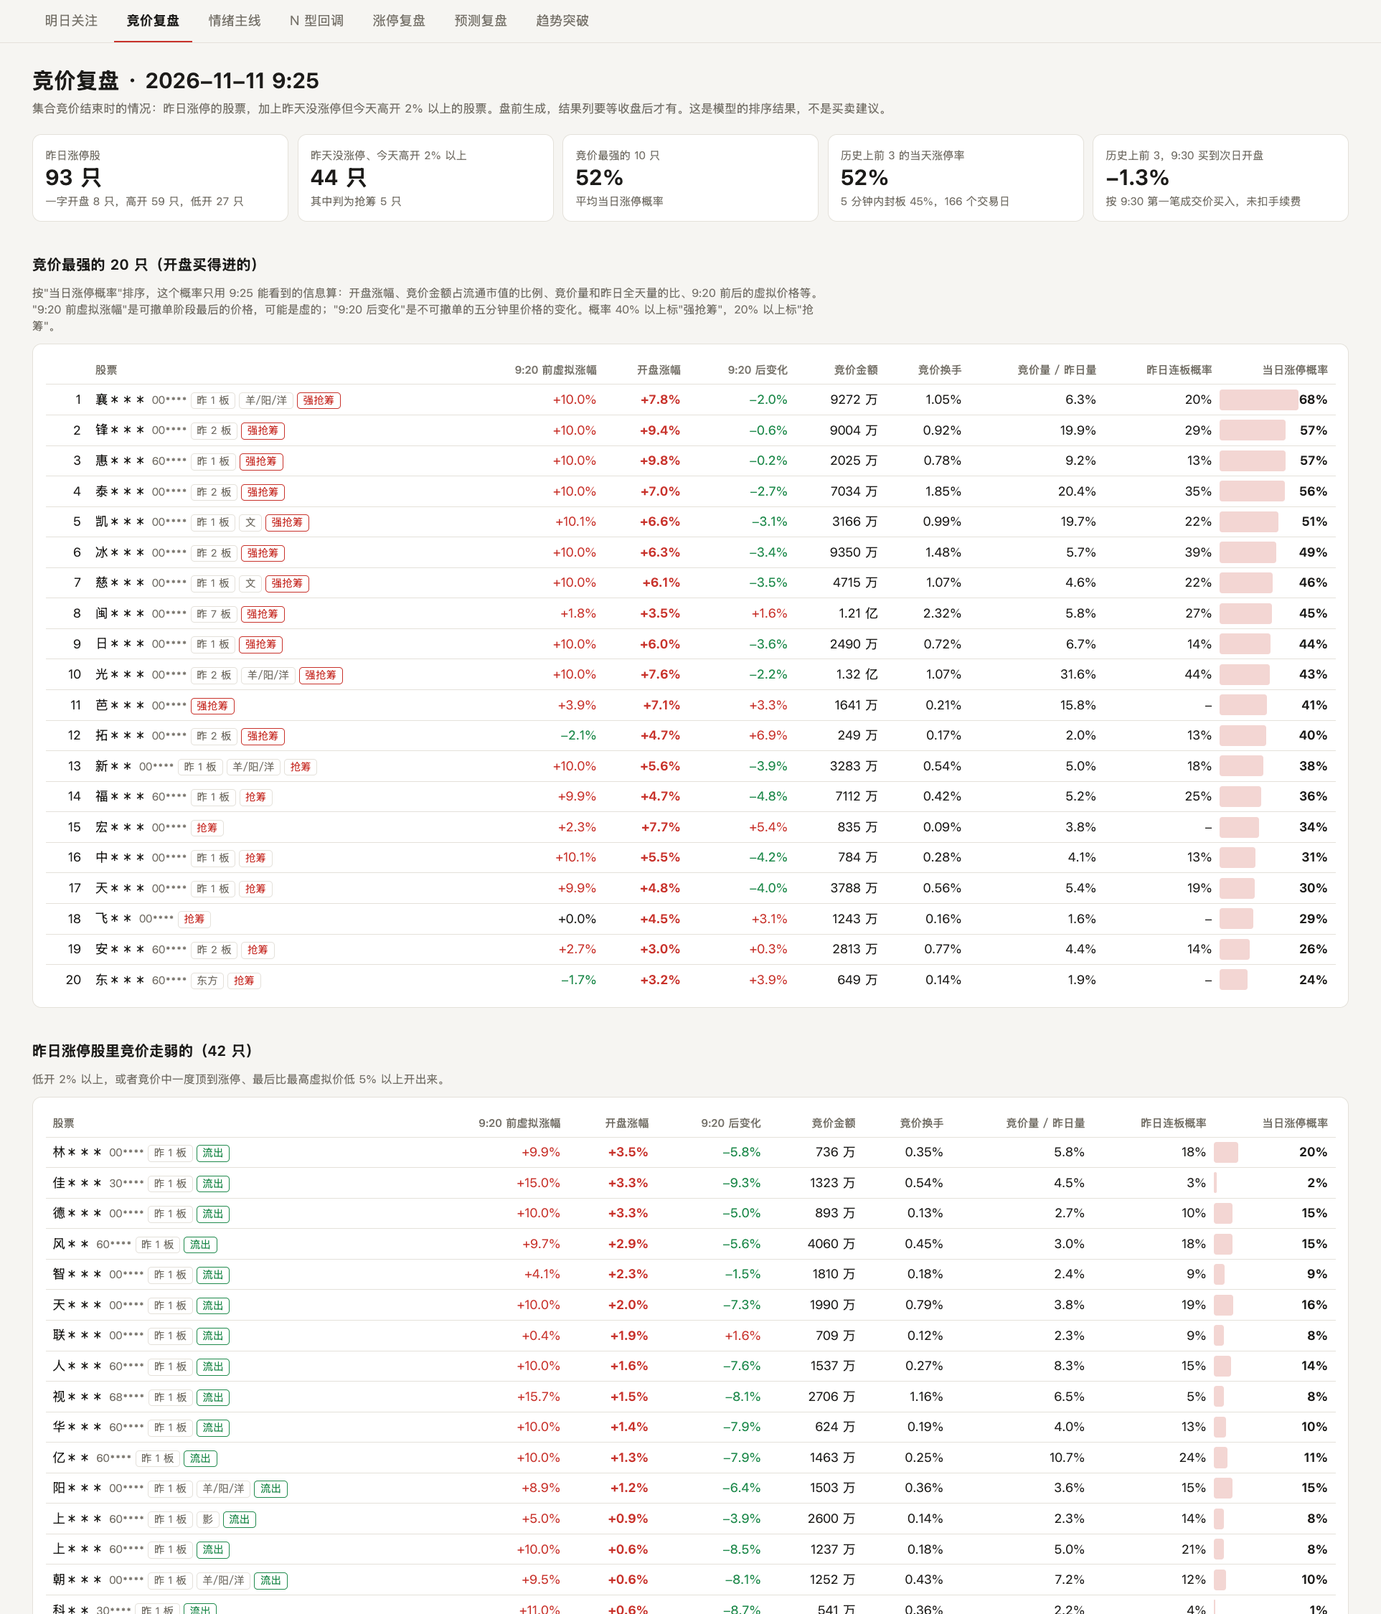
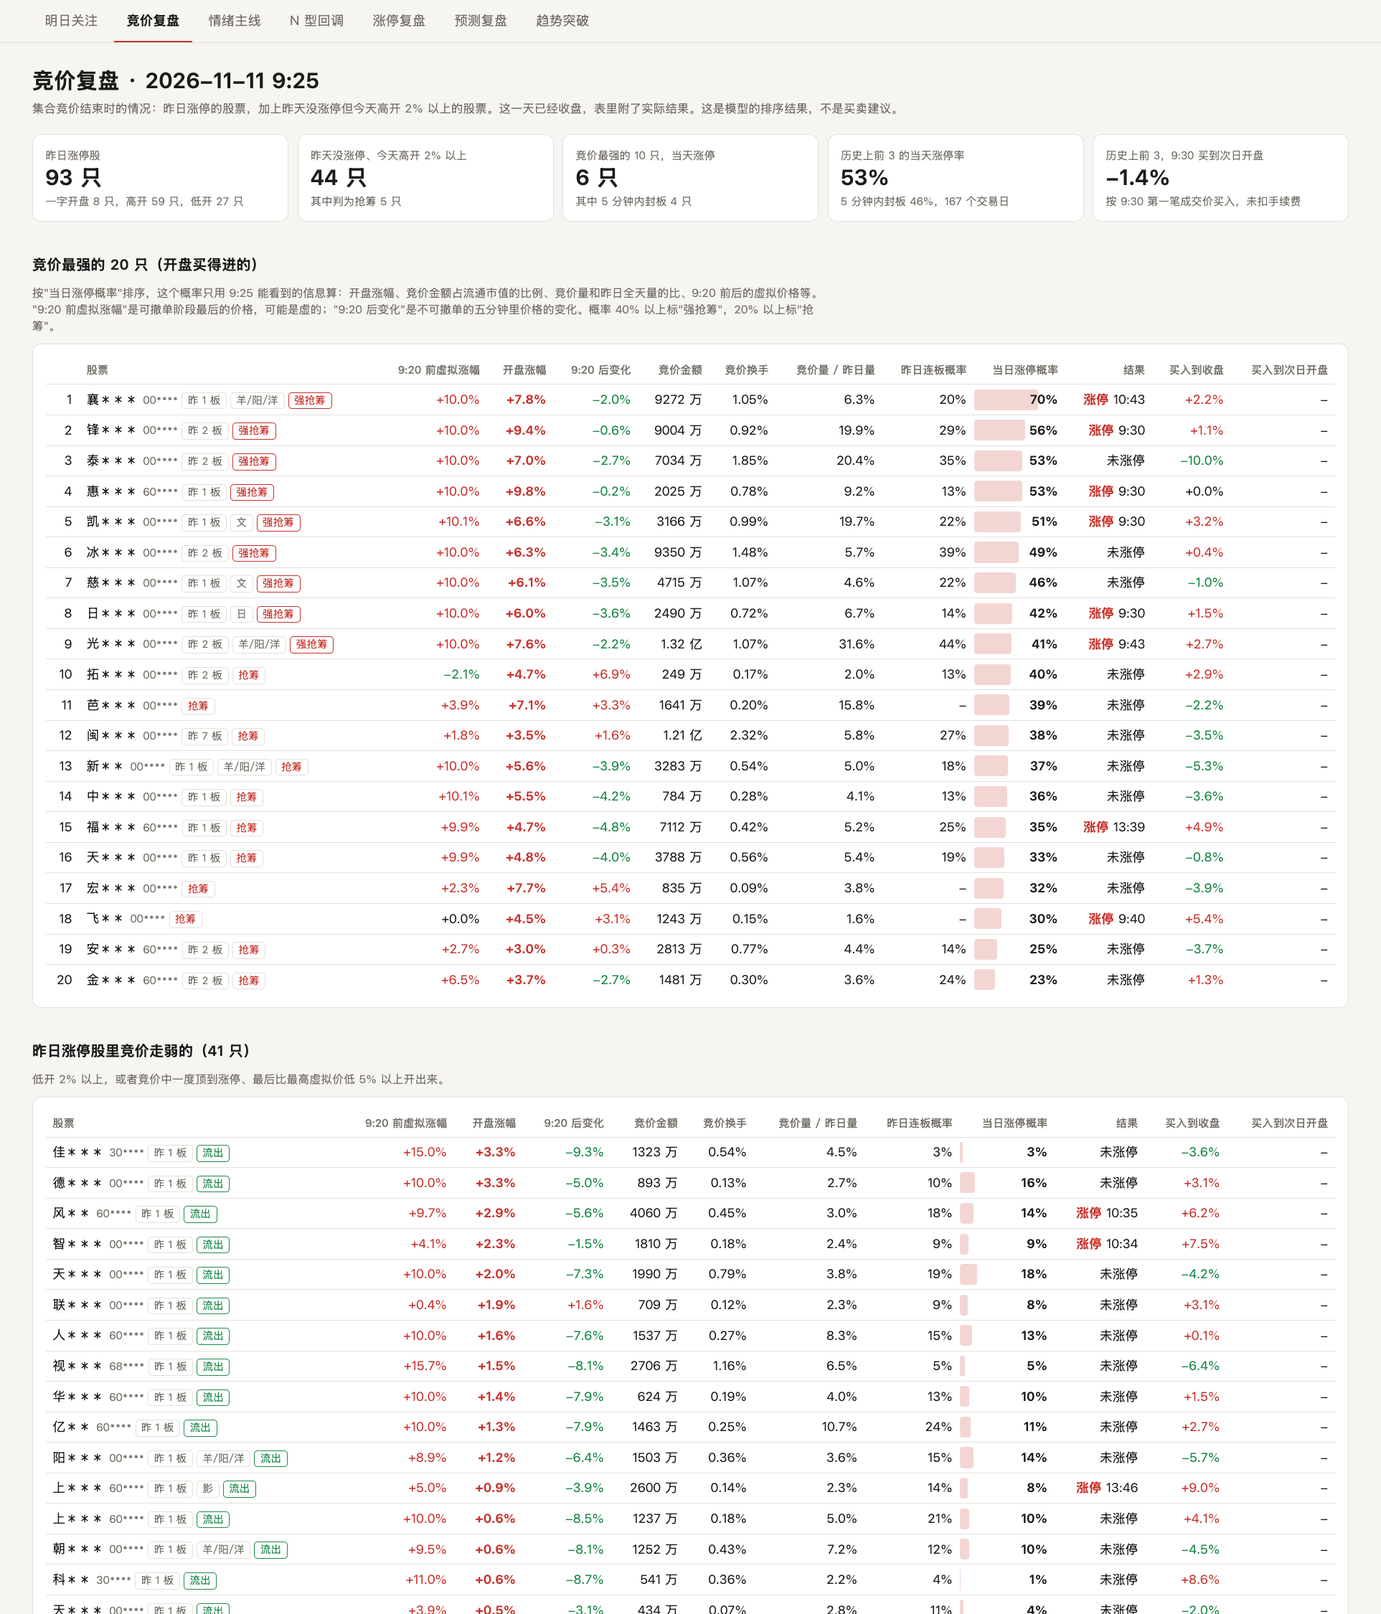
README 补充回测方法和更多截图，新增个股资金流采集
- README 新增每一类是怎么回测的，逐类写明样本、目标、特征、模型、滚动方式和指标
- 回测结论补充：四类新特征没有提升、老龙头首板、断板后反包的统计
- 每个标签页多放下半部分的截图，全部截图更新到 11-11
- flow.py：个股主力资金流采集（慢速，连续失败自动停）

diff --git a/ztfp/flow.py b/ztfp/flow.py
@@ -1,0 +1,61 @@
+"""个股主力资金流（东方财富，只有最近约 120 个交易日，存下来之后一直保留）。
+
+只采涨停过的股票：近 130 个交易日里上过涨停池的。
+
+    python -m ztfp flow
+"""
+import time
+from concurrent.futures import ThreadPoolExecutor
+
+from .db import connect
+from .fetch import _get
+
+URL = "https://push2his.eastmoney.com/api/qt/stock/fflow/daykline/get"
+H = {"Referer": "https://quote.eastmoney.com/"}
+WORKERS = 2          # 并发高了会被东方财富限流
+SCHEMA = ("CREATE TABLE IF NOT EXISTS stk_flow (code TEXT, date TEXT, main REAL, super REAL, big REAL, "
+          "PRIMARY KEY (code, date))")
+
+
+def _one(a):
+    code, lmt = a
+    try:
+        j = _get(URL, dict(lmt=lmt, klt=101, secid=f"{1 if code[0] == '6' else 0}.{code}", fields1="f1,f2,f3,f7",
+                           fields2="f51,f52,f55,f56"), H, tries=2)
+        out = []
+        for s in ((j.get("data") or {}).get("klines") or []):
+            d, m, b, sp = s.split(",")
+            out.append((code, d.replace("-", ""), float(m), float(sp), float(b)))
+        time.sleep(0.15)
+        return out
+    except Exception:
+        return None
+
+
+def update(log=print):
+    con = connect()
+    con.execute(SCHEMA)
+    dates = [r[0] for r in con.execute("SELECT DISTINCT date FROM feat ORDER BY date")]
+    last = dates[-1]
+    codes = [r[0] for r in con.execute("SELECT DISTINCT code FROM feat WHERE date>=?", (dates[max(len(dates) - 130, 0)],))]
+    have = dict(con.execute("SELECT code, MAX(date) FROM stk_flow GROUP BY code").fetchall())
+    todo = [(c, 0 if c not in have else 15) for c in codes if have.get(c, "") < last]
+    t, fail, n, bad = time.time(), 0, 0, 0
+    with ThreadPoolExecutor(WORKERS) as ex:
+        for rows in ex.map(_one, todo):
+            if rows is None:
+                fail += 1
+                bad += 1
+                if bad >= 20:      # 连续失败多半是被限流了，停下来，下次接着抓
+                    log("个股资金流：接口连续失败，可能被限流，先停下，过一会儿再跑")
+                    ex.shutdown(wait=False, cancel_futures=True)
+                    break
+                continue
+            bad = 0
+            con.executemany("INSERT OR REPLACE INTO stk_flow VALUES (?,?,?,?,?)", rows)
+            n += 1
+            if n % 50 == 0:
+                con.commit()
+    con.commit()
+    con.close()
+    log(f"个股资金流：更新 {n} 只，失败 {fail} 只，剩 {len(todo) - n - fail} 只没抓，用时 {time.time() - t:.0f}s")

diff --git a/README.md b/README.md
@@ -22,6 +22,7 @@
 - [八、调参数](#八调参数)
 - [九、常见问题](#九常见问题)
 - [十、回测结论](#十回测结论)
+- [十一、每一类是怎么回测的](#十一每一类是怎么回测的)
 
 ## 一、安装
 
@@ -181,11 +182,17 @@ Windows 用"任务计划程序"建一个每天 15:30 触发的任务，执行同
 
 名字后面如果带"羊 · 第 27 天"这样的标记，表示这只股票属于正在炒作的情绪主线，以及这条主线已经炒了多少个交易日。
 
-（截图见本文开头。）
+（截图见本文开头。）页面最下面的各概率档历史结果：
+
+![各概率档的历史结果](docs/img/watch2.png)
 
 ### 竞价复盘
 
 ![竞价复盘页](docs/img/auction.png)
+
+*上：9:25 的竞价排名和走弱名单。下：最近 5 天竞价前几名的实际结果，以及历史统计。*
+
+![竞价复盘页的历史统计](docs/img/auction2.png)
 
 打板要看集合竞价。这一页回答两个问题：昨天的涨停股今天谁在被抢筹、谁在流出；昨天没涨停的股票里，谁的竞价突然很猛。
 
@@ -212,6 +219,12 @@ Windows 用"任务计划程序"建一个每天 15:30 触发的任务，执行同
 ### 情绪主线
 
 ![情绪主线页](docs/img/hot.png)
+
+*上：正在进行的主线。下：强势板块和资金流出的板块；再往下是历史统计。*
+
+![强势板块](docs/img/hot2.png)
+
+![情绪主线的历史统计](docs/img/hot3.png)
 
 回答两个问题：现在市场在炒什么，已经炒了多久。
 
@@ -240,6 +253,10 @@ Windows 用"任务计划程序"建一个每天 15:30 触发的任务，执行同
 ### N 型回调
 
 ![N 型回调页](docs/img/nshape.png)
+
+*上：今天的名单。下：历史统计。*
+
+![N 型回调的历史统计](docs/img/nshape2.png)
 
 很多连板股 2–3 板之后断板，回调几天又重新启动，日K上走出一个 N 字。这一页把这类股票找出来。
 
@@ -270,6 +287,12 @@ Windows 用"任务计划程序"建一个每天 15:30 触发的任务，执行同
 
 ![涨停复盘页](docs/img/zt.png)
 
+*下面两张：题材梯队；历史统计和模型可信度。*
+
+![题材梯队](docs/img/zt2.png)
+
+![涨停复盘的历史统计](docs/img/zt3.png)
+
 ### 预测复盘
 
 回答"模型过去说的概率，事后看准不准"。只统计给出概率时模型没见过答案、且次日结果已经出来的预测，所以它截至的日期比涨停复盘早一个交易日。
@@ -281,6 +304,10 @@ Windows 用"任务计划程序"建一个每天 15:30 触发的任务，执行同
 - **看走眼的**：近 10 天概率高却没晋级的，和概率低却晋级的。
 
 ![预测复盘页](docs/img/review.png)
+
+*下：概率校准、模型在哪类股票上偏高偏低、最近看走眼的。*
+
+![预测复盘的校准和偏差](docs/img/review2.png)
 
 ### 趋势突破
 
@@ -302,6 +329,10 @@ Windows 用"任务计划程序"建一个每天 15:30 触发的任务，执行同
 - **这个形态的历史表现**：突破当天买、等回踩再买、随机买入三种方式的对比。
 
 ![趋势突破页](docs/img/trend.png)
+
+*下：突破信号的历史统计，以及和随机买入的对比。*
+
+![趋势突破的历史统计](docs/img/trend2.png)
 
 ## 七、数据和文件
 
@@ -429,6 +460,9 @@ zt-fupan/
 - 影响最大的因素：封单占流通市值的比例、是否 20cm、首次封板时间。
 - 概率越高的股票次日高开越多。按次日开盘买、收盘卖计算，各概率档的平均收益在 -0.9% 到 +0.3% 之间，未扣手续费。
 - 20cm 的股票被高估：模型平均给 10%，实际 6%。
+- 试过再加四类特征：之前当过几板的龙头、上一波断板后的回调深度、有没有反包过、近 10 日的日K形态。AUC 从 0.701 到 0.704，前 10 只晋级率 28.5% 到 28.9%，没有实质提升，所以没有加进正式模型。
+- 单看"老龙头"：近 40 日走过 4 板以上的股票再出首板，次日晋级率 21%，其他首板 15%；到 2 板之后这个优势消失。
+- 断板之后会不会反包，主要看断板当天跌多少：跌不到 2% 的 5 日内 69% 反包，跌 7% 以上的只有 20%。但断板收盘买入持有 5 日，各组平均都是亏的（−0.8% 到 −3.9%）。
 - 波段概率模型的 AUC 只有 0.57，参考价值有限。
 
 ### 趋势突破
@@ -441,3 +475,138 @@ zt-fupan/
 - 方向一致的只有两条：市场整体超跌（站上 60 日线的股票少、上证低于 60 日线）时买入结果更好；突破日放量越大，之后 60 日收益越差。
 
 所以趋势突破页目前的用处是把符合形态的股票筛出来看图，不代表这些股票胜率更高。
+
+## 十一、每一类是怎么回测的
+
+所有回测共用几条规矩：
+
+- **不偷看未来**。特征只用到"做决定那一刻"为止的信息；模型只用之前的数据训练，再去预测之后的日子（滚动前推）。页面上的概率全部是这样算出来的样本外概率。
+- **和基准比**。每个结论都有对照组：全部涨停股的平均、同一天全市场的平均，或者不满足条件的那一组。
+- **分两段看**。把时间切成前后两半，两半都成立的才写进结论。
+- **价格按实际能成交的算**。一字板、开盘就涨停的算买不进；买入价用次日开盘价或 9:30 第一笔成交价，不用收盘后才知道的价格。
+- **没扣手续费和滑点**，实际结果会比表里再差一点。
+- 涨停数据从 2025-11 开始，约 250 个交易日；全市场日K从 2024-01 开始。样本只覆盖这一段行情，换一种市场环境结论可能变。
+
+### 连板概率（涨停复盘、明日关注用的概率）
+
+| 项目 | 做法 |
+|---|---|
+| 样本 | 每天涨停池里的每一只股票，一行一个"股票-交易日" |
+| 预测什么 | 次日是否继续涨停（出现在下一个交易日的涨停池） |
+| 用什么信息 | 36 个特征，都是当天收盘就知道的：封板质量（首封时间、开板次数、封单占流通市值、换手率、涨停类型）、题材（所属题材涨停数、题材持续天数）、位置和量价（距 60 日高点、前 5/20 日涨幅、偏离 20/60 日线、量比）、异动偏离值、市场情绪（涨停数、跌停数、炸板率、最高板、昨日晋级率） |
+| 模型 | 梯度提升树（`HistGradientBoostingClassifier`，深度 3，150 棵，学习率 0.04） |
+| 怎么回测 | 前 80 个交易日只训练不预测。之后每 5 个交易日重训一次：用这 5 天之前的全部数据训练，预测这 5 天。训练集和预测期之间空出 1 天，因为最后一天的标签要到第二天才知道 |
+| 看什么指标 | AUC（区分度）；Brier 分数（和"永远报平均值"比）；按概率五等分后预测值和实际值是否对得上；概率最高的 10% 实际晋级率 |
+| 特征重要性 | 用前 75% 的日期训练，在后 25% 上把某个特征打乱，看 AUC 掉多少 |
+
+**波段概率**用同一套流程，只是标签换成"之后 20 个交易日内最高价比涨停收盘价高 20% 以上，而且之前没有跌破起涨点"。因为标签要用到之后 20 天的行情，训练集和预测期之间空出 20 天。
+
+### 明日关注
+
+规则是固定的：当天涨停池里去掉一字板，按连板概率从高到低取前 10 只。
+
+回测就是把这条规则在历史上每天执行一遍：
+
+- 每天按样本外概率选出前 10 只，统计次日晋级率，和当天全部涨停股比。
+- 按概率分档（比如 15–25%、25–40%、60% 以上），每档统计次日实际晋级率、平均高开幅度、开盘直接涨停的比例、次日开盘买收盘卖的平均收益。页面上每只股票的"同档"三列就是从这里查的。
+- 一字板单独统计，只和别的一字板比。
+- 按月看：每个月前 5 只的晋级率比当月整体高多少。
+
+### 竞价复盘
+
+| 项目 | 做法 |
+|---|---|
+| 样本 | 每天两类股票：昨日涨停的；昨天没涨停但今天高开 2% 以上的。约 6 万个"股票-交易日" |
+| 数据 | 通达信的历史逐笔成交。9:15–9:25 之间成交量为 0 的记录是虚拟撮合价，每分钟取最后一个；9:25 那笔有成交量的是开盘撮合 |
+| 预测什么 | 当天收盘是否涨停 |
+| 用什么信息 | 只用 9:25 能看到的：开盘涨幅、开盘涨幅占涨停幅度的比例、9:20 第一个不可撤单价格到开盘价的变化、9:19 的虚拟涨幅、9:20 前后的回落、是否虚假涨停（竞价中顶到涨停但没开在涨停）、竞价量 / 昨日全天量、竞价金额 / 流通市值、昨天的板数、昨天是否一字、昨天的连板概率和封单比 |
+| 模型 | 梯度提升树（深度 4，200 棵，学习率 0.05） |
+| 怎么回测 | 前 80 个交易日只训练。之后每 10 个交易日重训一次，用之前的数据预测这 10 天。训练只用开盘买得进的股票（开盘没在涨停价） |
+| 买入价 | 9:30 之后的第一笔成交价，不是 9:25 的开盘价。开盘就在涨停价的算买不进，不计入收益 |
+| 看什么指标 | AUC，并和"只用昨天的连板概率"比；每天排名前 3 / 前 10 的当日涨停率、开盘 5 分钟内封板的比例；9:30 买入到当天收盘、到次日开盘的平均收益 |
+
+"抢筹 / 流出"的标签不是另一个模型，是直接按概率和规则贴的：概率 40% 以上是强抢筹，20% 以上是抢筹；昨日涨停而今天低开 2% 以上，或者竞价里顶过涨停、最后比最高虚拟价低 5% 以上开出来的，是流出。
+
+### 情绪主线
+
+主线检测本身不是训练出来的模型，是一套固定的统计规则，所以回测的是"按这套规则检出来的主线，里面的股票后来怎么样"。
+
+**检测规则**（每天只用当天及之前的数据）：
+
+1. 把每只涨停股拆成标签：名字里的每个字（同音同调的归一组，如羊/阳/洋）、名字里相邻的两个字、同花顺给的涨停原因。业绩、国资这类不代表题材的原因不算。
+2. 看最近 5 个交易日。一个标签要算"在炒"，必须同时满足：涨停次数不少于 5、涉及股票不少于 3 只、其中最高板不低于 3、连板的不少于 2 只。
+3. 和平时比：字和词与全市场股票名字里这个字的占比比，题材与它自己之前 120 天的占比比。必须是平时的 3 倍以上，并且按泊松分布算，偶然出现的概率小于万分之一。
+4. 成员重合一半以上的标签合并，只留最热的。
+5. 中间断开不超过 5 个交易日算同一轮。起点是这一轮里最早连板的那只股票的首板日。
+
+**回测**：
+
+- 把每个"涨停股-交易日"归到当天最热的那条主线，没有的归到"不在任何主线里"。
+- 比较主线内和主线外的次日晋级率，再按"炒作到第几天"分段比。
+- 只统计已经结束的炒作（最后一次检出后又过了 5 个交易日以上），看一轮持续多少天、检出日比起点晚几天。
+
+### 板块强度
+
+同样是固定规则，不是模型。
+
+**打分规则**：每天对东方财富的每个行业和概念板块，算近 5 日涨幅、近 5 日主力净流入、净流入占成交额三项，各自在当天所有板块里排百分位，三项取平均。涨幅或净流入是负的直接记 0 分。每天取前 15 名，成分股重合 70% 以上的只留一个。
+
+**回测**：
+
+- 板块本身：上榜之后 5 日、10 日的涨幅，和同一天全部板块的平均比。
+- 板块里的涨停股：次日晋级率，和不在强势板块里的涨停股比。
+- 板块里没涨停的成分股：之后 5 日、10 日的涨幅，和同一天全市场的平均比；再单独看板块内近 5 日涨幅最靠前的几只。
+- 和情绪主线交叉：同时在两边、只在一边、都不在，四组分别统计晋级率。
+
+板块资金流只有最近约 120 个交易日，这部分样本比其他的短。
+
+### N 型回调
+
+固定规则，不是模型。
+
+**怎么找**：
+
+1. 用涨停数据把每只股票的连板段切出来，取 2 板以上的作为"第一波"。
+2. 断板之后逐日跟踪 15 个交易日。第 2–12 天里还没有再涨停过的日子，算"回调中"。
+3. 每个回调日算三个量：已回吐（第一波涨幅吐回去的比例）、近 3 日均量 / 第一波最大单日量、是否还在 10 日线上方。
+
+**回测**：
+
+- 形态出现的频率：断板后第 3–12 天再涨停的比例，按第一波板数分组，和普通股票任意 10 天内涨停的概率比。
+- 回调中买入：每一个"回调中"的日子都当作一次收盘买入，统计后 5 日、后 10 日的平均涨幅和胜率，按回吐幅度、量能、第一波板数分组。
+- 确认后追入：回调之后第一次再涨停，统计这个板的次日晋级率，以及次日开盘买入持有 5 日的涨幅。
+- 离场方式：在上面的买点上分别套用"止损 7%"、"跌破 5 日线离场"、"止盈 10% 止损 5%"，比较平均收益。
+
+同一只股票连续几天都在回调中会被算成多次买入，这些样本彼此相关，所以平均值比样本数显示的更不稳。
+
+### 趋势突破
+
+| 项目 | 做法 |
+|---|---|
+| 样本 | 全市场每只股票每天扫描，满足突破条件的那一天算一个信号。约 5900 个 |
+| 突破条件 | 收盘站上此前 120 日最高价，且之前 20 天内没突破过；前 120 日涨幅不超过 30%、振幅不超过 70%；收盘 > 20 日线 > 60 日线，60 日线向上；成交量不低于前 50 日均量的 1.2 倍；20 日日均成交额不低于 5000 万，上市满 250 个交易日，不含 ST |
+| 成功的定义 | 信号当天收盘买入，之后 60 个交易日内，先涨到 +25% 记成功，先跌到 −10% 记失败，都没碰到也记失败。同一天两个都碰到按失败算 |
+| 模型 | 梯度提升树，25 个特征（底部天数、突破前振幅和涨幅、放量倍数、各均线的斜率和偏离、全市场站上 60 日线的比例等） |
+| 怎么回测 | 前 150 个交易日只训练。之后每 20 个交易日重训一次。训练集和预测期之间空出 60 天，因为一个信号要 60 天后才知道结果 |
+| 看什么指标 | 样本外 AUC；概率五等分后的实际成功率；和"随机一天买入"的基线成功率比 |
+
+`python -m ztfp.trend_lab` 是另一种做法，用来检验新想法：把全市场每只股票每一天都放进一张大表，任何条件选出来的股票都和**同一天全市场的平均**比之后 20 日、60 日的涨幅。以 2025-08-31 为界，条件只在之前的数据上挑，在之后的数据上验证。
+
+### 节点、找下一个龙头、持有收益
+
+这几项是一次性的研究，结论写在上一节，没有做成页面。
+
+- **节点**：把连板段切出来，取 4 板以上的作为龙头，断板日记为节点日。统计节点日的涨停池里，后来走到 5 板以上的股票占多少，和非节点日比。
+- **龙头概率**：把标签换成"这只股票最终走到 5 板以上"，用和连板概率同样的滚动前推训练，看它在买得进的股票里是否比连板概率排得更准。
+- **持有收益**：每只涨停股按次日开盘价买入，分别持有 1、2、3、5、10、20 个交易日按收盘价卖出，按板数、概率档、市值分组，并分前后两半时间看。
+
+### 新特征要不要加进模型
+
+想给连板模型加新信息时用同一个办法检验：
+
+1. 把新特征和原来的 36 个特征放在一起，用完全相同的滚动前推重跑一遍。
+2. 比较 AUC、概率最高 10% 的晋级率、每天前 3 只和前 10 只的晋级率，以及首板、2 板、3 板以上各自的 AUC。
+3. 再对每个新特征单独分组，看晋级率是否随它单调变化，前后两半时间是否一致。
+4. 提升明显超过随机波动（AUC 提高 0.01 以上，并且两半时间都提高）才加进正式模型。
+
+龙头史、回调深度、反包、日K形态四类特征就是这样测的，没有通过。个股主力资金流还没测完。
